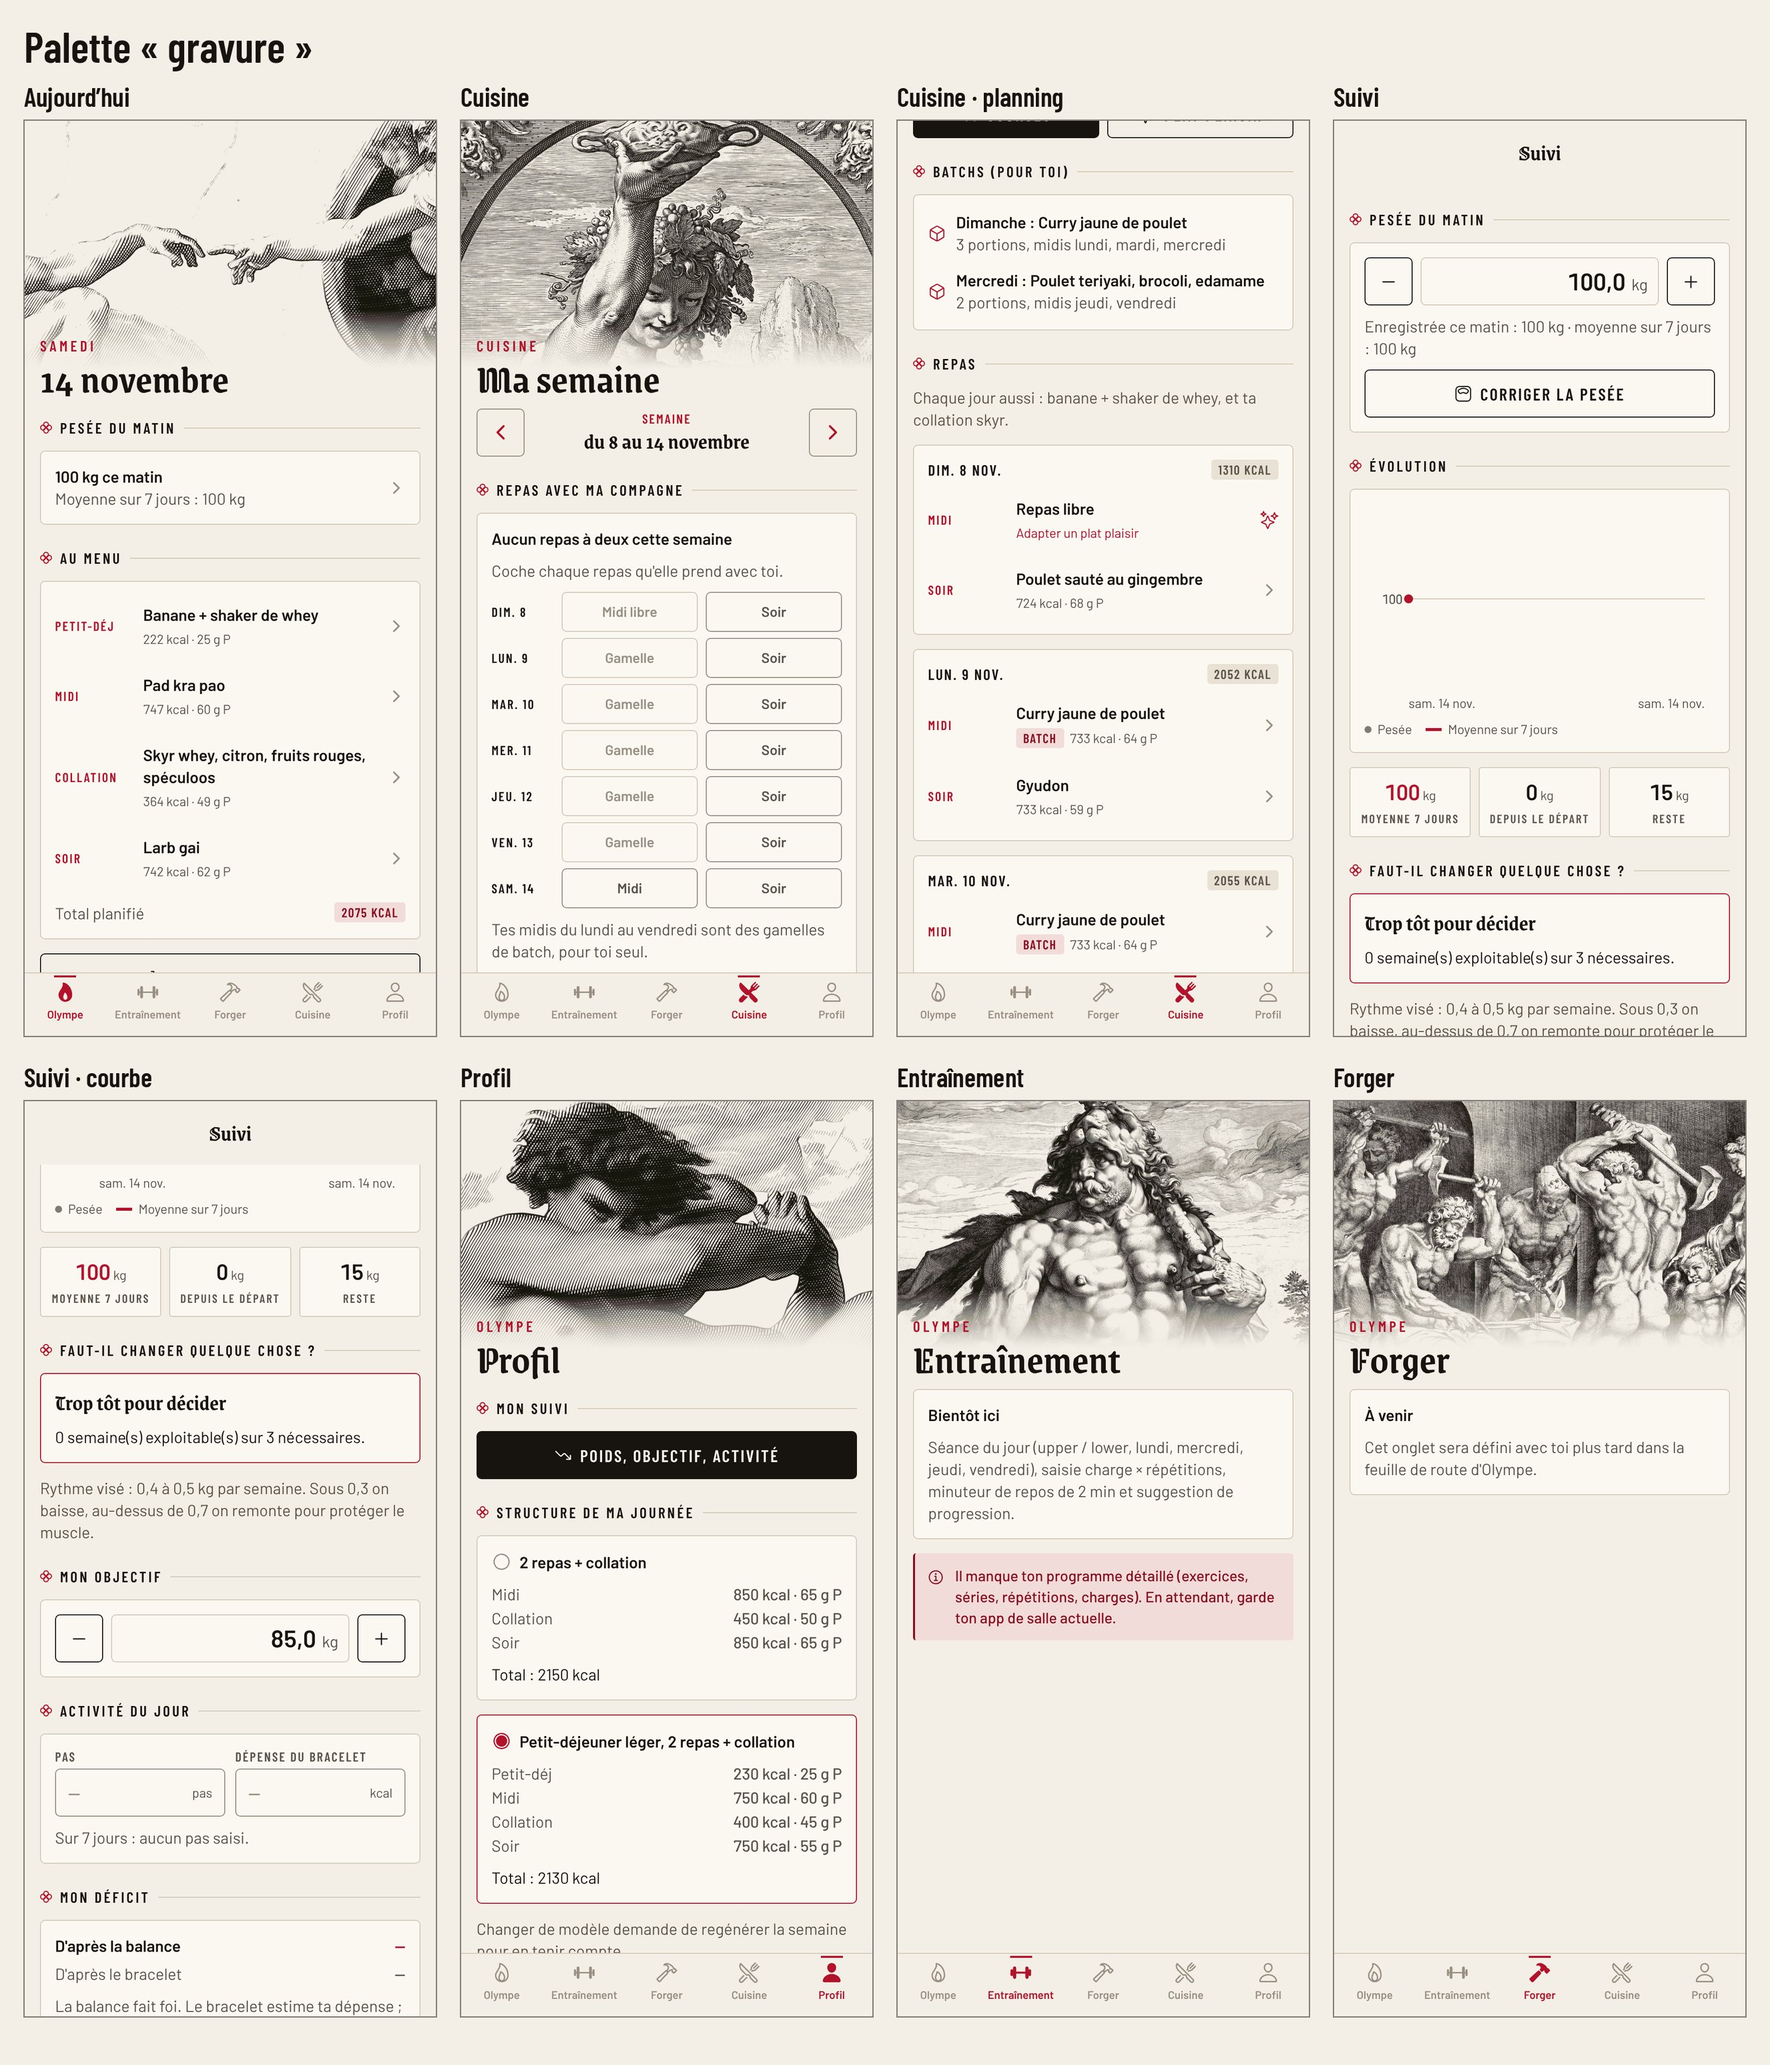
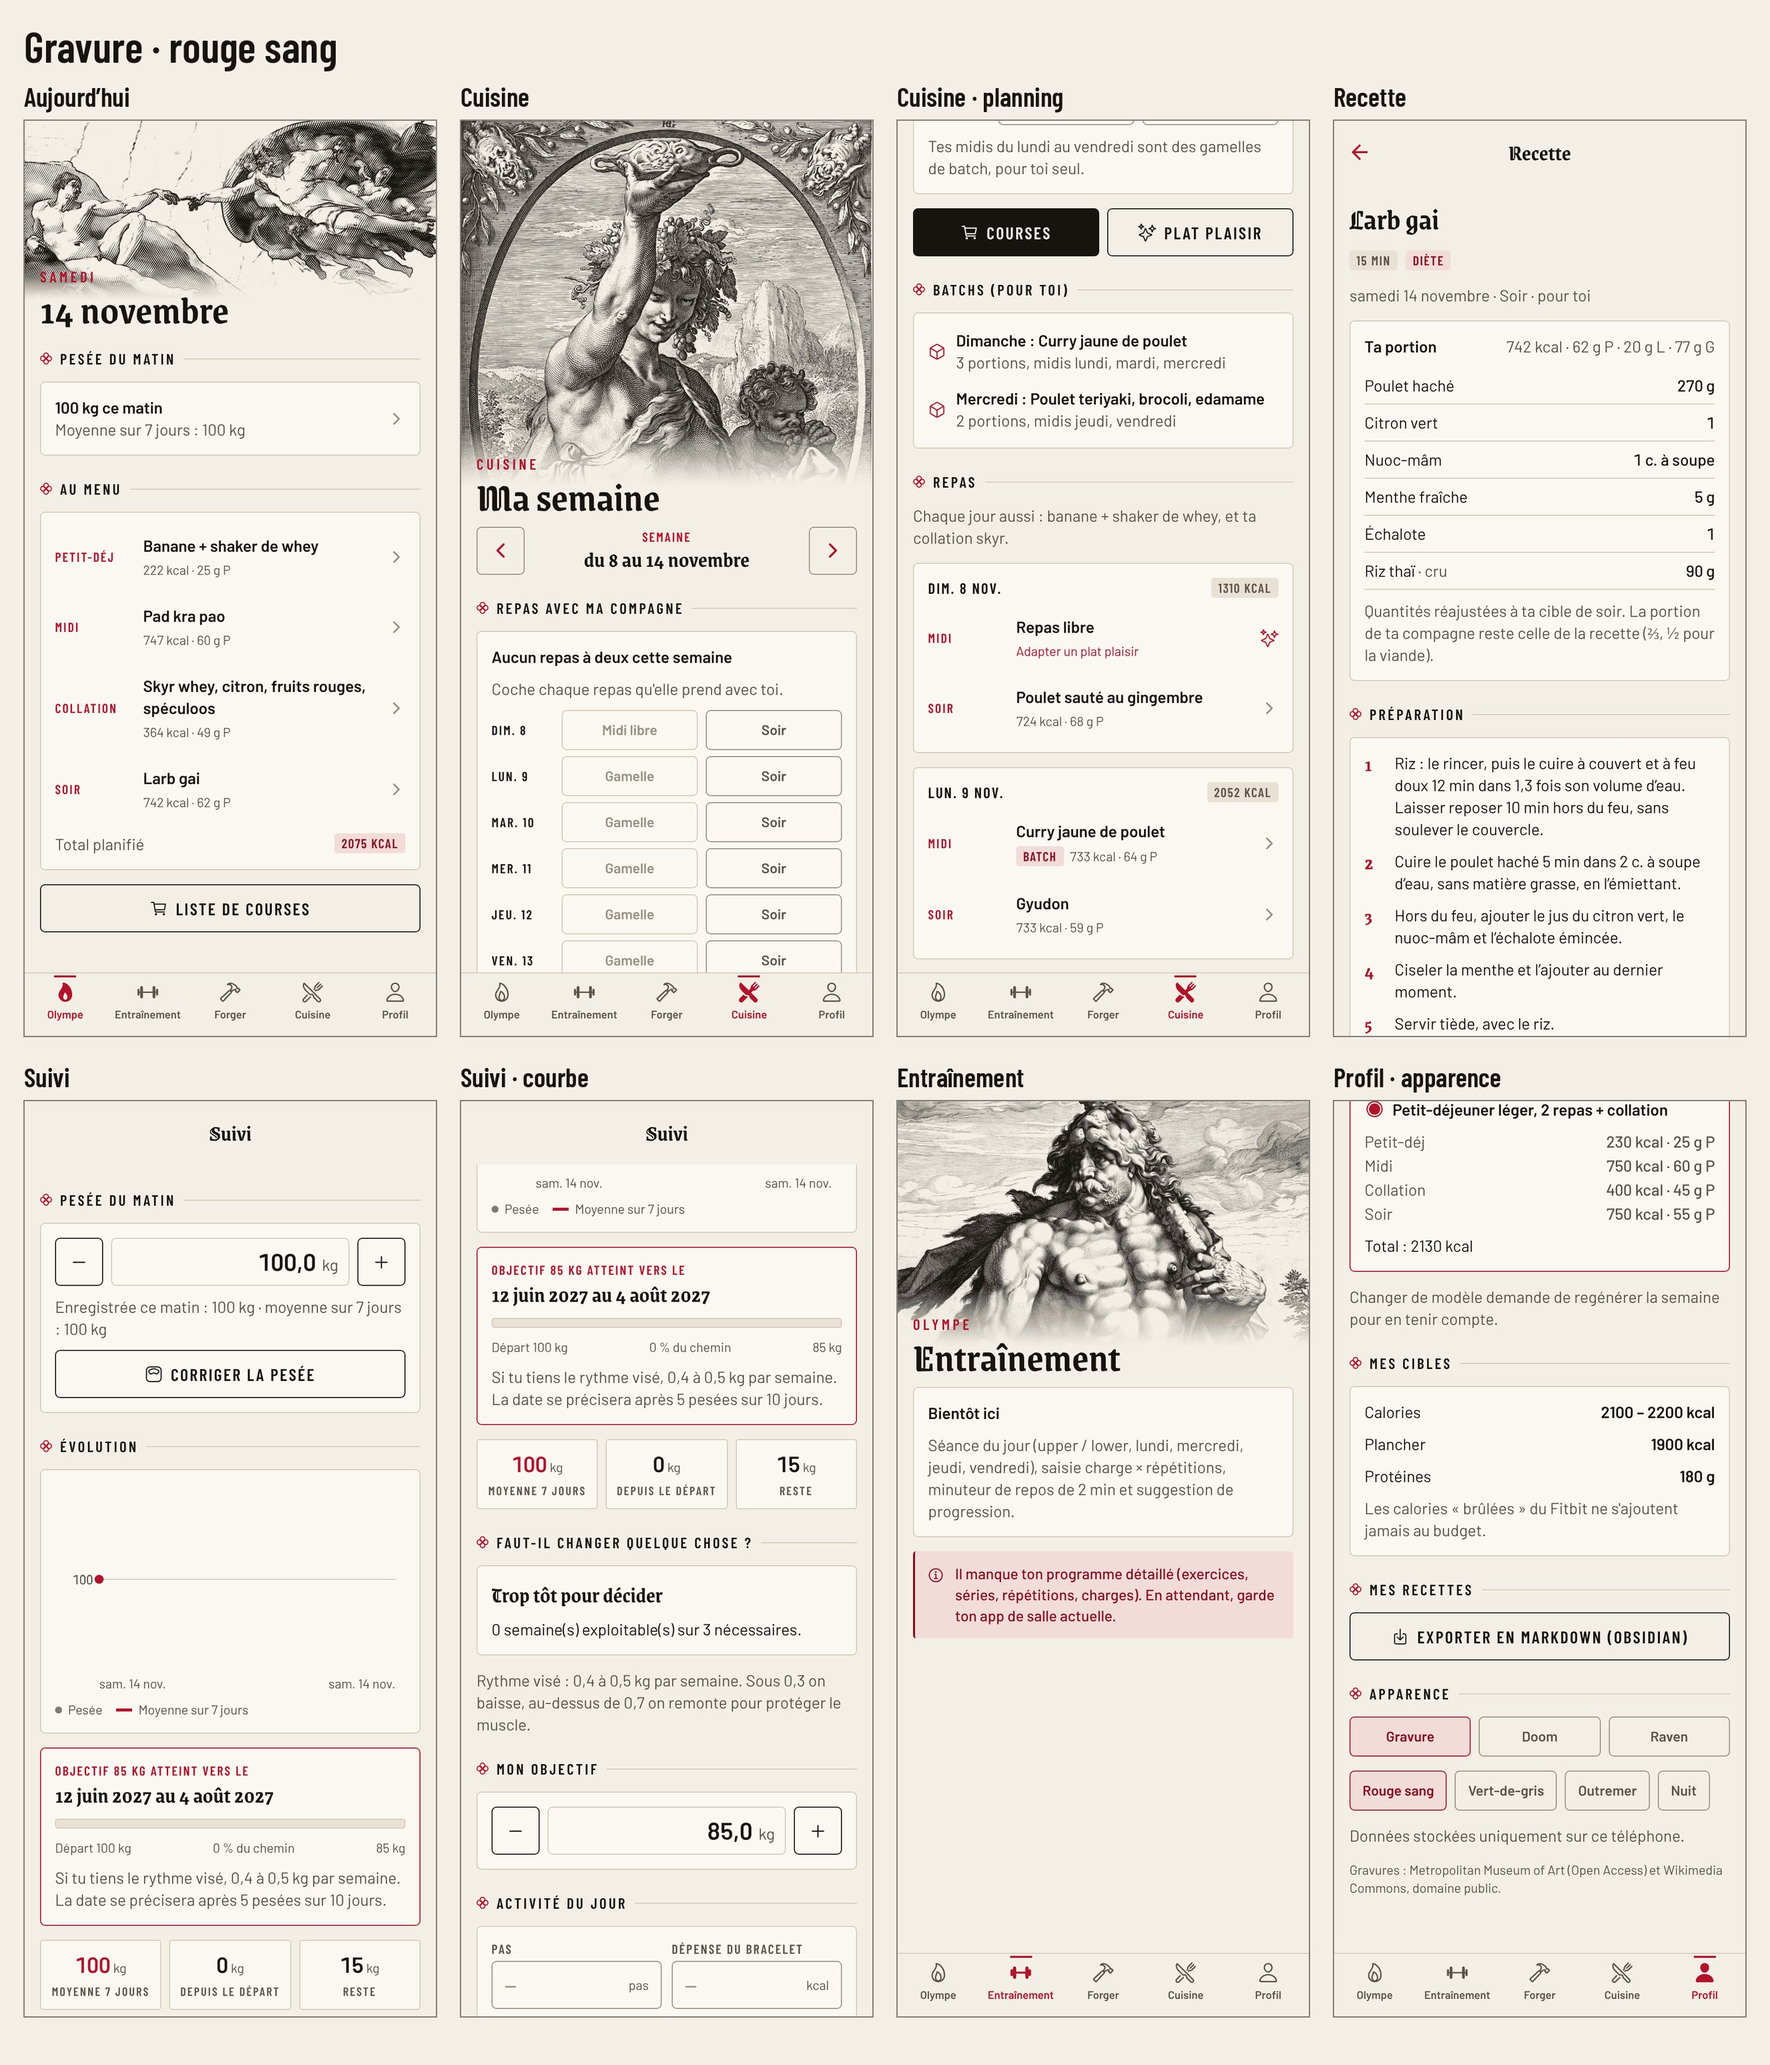
DA Doom et Raven : images de Doré, planches, analyse et recommandation
Images en « trait clair » (L'Enfer pour Doom, Le Corbeau pour Raven),
libellés de Raven resserrés, planches de captures des six apparences,
docs/DA_DOOM_RAVEN.md et mise à jour de docs/PROPOSITIONS_COULEURS.md.

Claude-Session: https://claude.ai/code/session_01D5ateorNCEUKPUuC11yqK5

diff --git a/apps/mobile/src/theme/directions/raven.ts b/apps/mobile/src/theme/directions/raven.ts
@@ -45,7 +45,7 @@ export const raven: Direction = {
     body: { fontFamily: F.text, fontWeight: '400', fontSize: 16, lineHeight: 24 },
     strong: { fontFamily: F.text, fontWeight: '600', fontSize: 16, lineHeight: 24 },
     small: { fontFamily: F.text, fontWeight: '400', fontSize: 13, lineHeight: 19 },
-    label: { fontFamily: F.label, fontWeight: '600', fontSize: 11.5, lineHeight: 16, letterSpacing: 0.8, textTransform: 'uppercase' },
+    label: { fontFamily: F.label, fontWeight: '600', fontSize: 10.5, lineHeight: 15, letterSpacing: 0.5, textTransform: 'uppercase' },
     number: { fontFamily: F.text, fontWeight: '500', fontSize: 16, lineHeight: 22, fontVariant: [...tab] },
     button: { fontFamily: F.label, fontWeight: '700', fontSize: 15, lineHeight: 20, letterSpacing: 2, textTransform: 'uppercase' },
     badge: { fontFamily: F.label, fontWeight: '600', fontSize: 11, lineHeight: 16, letterSpacing: 1.2, textTransform: 'uppercase' },

diff --git a/docs/PROPOSITIONS_COULEURS.md b/docs/PROPOSITIONS_COULEURS.md
@@ -133,21 +133,21 @@ Pour corriger cela, il faudrait préparer pour les thèmes sombres une version i
 
 ## Recommandation
 
-1. **Gravure, à garder comme thème principal.** **[Probable]** C'est celle qui sert le mieux l'usage réel de l'app, en cuisine et en rayon : lisible en pleine lumière, des images rendues comme prévu, une identité qui ne ressemble à aucune autre appli. Je corrigerais seulement les libellés d'onglets inactifs (`faint` → `muted` pour le texte de l'onglet), si vous le souhaitez.
-2. **Raven, si vous voulez un thème sombre.** **[Probable]** C'est la plus lisible des deux et la seule qui reste calme. À essayer le soir sur votre téléphone avant de juger.
-3. **Doom : je la déconseille comme thème principal.** **[Probable]** Elle est lisible et respecte la règle des trois couleurs, mais son vert et son rouge se battent pour l'attention, la paire rouge-vert pose problème aux daltoniens, et ses gravures en négatif sont les plus dures à regarder. Elle dessert une app qu'on ouvre surtout pour lire une recette.
+1. **Gravure en rouge sang, à garder par défaut.** **[Probable]** C'est celle qui sert le mieux l'usage réel de l'app, en cuisine et en rayon : lisible en pleine lumière, des images rendues comme prévu, une identité qui ne ressemble à aucune autre appli. Les libellés d'onglets inactifs sont maintenant corrigés.
+2. **Vert-de-gris, la seule variante qui la vaut.** **[Probable]** Même lisibilité, ambiance plus douce ; on y perd un peu de force dans les alertes.
+3. **Outremer et Nuit : à essayer, pas à adopter les yeux fermés.** Outremer est la plus lisible mais la plus dure à l'œil sur une longue liste ; Nuit affiche les gravures en négatif.
+4. **Pour un thème sombre, préférez la DA Raven à la palette Nuit** : ses images ont été préparées pour le fond sombre. Voir `docs/DA_DOOM_RAVEN.md`.
 
 Limites : **[Certain]** toutes ces observations viennent de l'export web (412 × 915). Sur un écran OLED Android, le noir est plus profond et le rendu sera encore plus contrasté ; la seule façon de trancher est d'essayer en APK.
 
 ## Planches
 
+Captures réelles de l'export web (412 × 915), semaine générée et pesée de 100 kg saisies dans l'interface. Aucune donnée de démonstration n'est enregistrée dans le code.
+
 | Fichier | Contenu |
 |---|---|
-| `docs/couleurs/planche-gravure.jpg` | Aujourd'hui, Cuisine (haut et planning), Suivi (haut et courbe), Profil, Entraînement, Forger |
-| `docs/couleurs/planche-doom.jpg` | Idem, palette Doom |
-| `docs/couleurs/planche-raven.jpg` | Idem, palette Raven |
-| `docs/couleurs/comparatif-aujourdhui.jpg` | Aujourd'hui dans les trois palettes |
-| `docs/couleurs/comparatif-cuisine-bas.jpg` | Planning de la semaine dans les trois palettes |
-| `docs/couleurs/comparatif-profil.jpg` | Profil : effet du négatif sur *L'Ange déchu* |
+| `docs/couleurs/comparatif-gravure-palettes.jpg` | Aujourd'hui dans les quatre palettes de Gravure |
+| `docs/couleurs/comparatif-da-aujourdhui.jpg` · `-recette.jpg` · `-entrainement.jpg` | Gravure, Doom et Raven côte à côte |
+| `docs/couleurs/planche-<apparence>.jpg` | Huit écrans par apparence : gravure, gravure-verdegris, gravure-outremer, gravure-nuit, doom, raven |
 
-Captures prises sur des exports web réels, avec une semaine générée et une pesée de 100 kg saisie dans l'interface. Aucune donnée de démonstration n'est enregistrée dans le code.
+Les sections « Doom » et « Raven » plus haut décrivent les palettes des premières propositions ; elles sont reprises telles quelles dans les DA complètes (`docs/DA_DOOM_RAVEN.md`).

diff --git a/docs/DA_DOOM_RAVEN.md b/docs/DA_DOOM_RAVEN.md
@@ -36,7 +36,16 @@ Elles reprennent une ambiance et des teintes, rien d'autre : aucun logo, personn
 
 **[Certain]** Pas d'orange : le rouge est tiré vers le carmin, le vert vers l'olive.
 
-IMAGES_DOOM
+### Images (Gustave Doré, *L'Enfer* de Dante, 1861)
+
+| Écran | Planche | Pourquoi |
+|---|---|---|
+| Olympe (aujourd'hui) | Pl. 8, chant III, la porte de l'Enfer | Le seuil : on entre dans la journée |
+| Entraînement | Pl. 22, chant VII, avares et prodigues | Des hommes qui poussent d'énormes poids |
+| Forger | Pl. 65, chant XXXI, les Titans | La force brute |
+| Cuisine | Pl. 3, chant I, le lion | Le lion « à la faim enragée » |
+| Profil | Pl. 1, chant I, la forêt obscure | « Au milieu du chemin de notre vie » : où j'en suis |
+| Écran d'attente | Pl. 9, chant III, Charon | Le passeur |
 
 ## Raven
 
@@ -48,7 +57,16 @@ IMAGES_DOOM
 | **Lueur** | `#F1EEF8` · voilée `#B7B0C6` | Texte, images, bouton principal, compagne |
 | **Améthyste** | `#B28CFF` · claire `#CDB4FF` · ombre `#2E2245` | Rehaut : sélection, jour, alertes, courbe |
 
-IMAGES_RAVEN
+### Images (Gustave Doré, *Le Corbeau* d'Edgar Poe, 1884)
+
+| Écran | Planche | Pourquoi |
+|---|---|---|
+| Olympe (aujourd'hui) | n° 15, le cimetière sous la lune | Le décor du poème |
+| Entraînement | n° 12, la fenêtre ouverte en grand | Le seul geste vif du recueil |
+| Forger | n° 21, le bras levé vers le buste | L'effort tendu vers le haut |
+| Cuisine | n° 17, la table sous la lampe | L'intérieur, la lumière posée |
+| Profil | n° 24, le spectre sur la mer | La silhouette seule |
+| Écran d'attente | n° 1, le corbeau qui entre | L'arrivée |
 
 ## Les images en « trait clair »
 
@@ -86,7 +104,11 @@ Calcul WCAG 2.1 sur les valeurs des fichiers de palette.
 
 ## Recommandation
 
-RECO
+1. **Gravure (rouge sang) reste ma recommandation pour l'usage quotidien.** **[Probable]** C'est la plus lisible en pleine lumière, en cuisine et en rayon, et la seule dont les images sont rendues comme elles ont été dessinées.
+2. **Raven est la meilleure des deux nouvelles DA.** **[Probable]** C'est la plus confortable à lire (Spectral), la plus reposante le soir, et les images de Doré y sont les plus cohérentes avec l'ambiance. Si vous voulez une app sombre, c'est celle-là.
+3. **Doom est la plus spectaculaire, mais la plus fatigante.** **[Probable]** Elle convient à l'onglet Entraînement plus qu'à une recette lue pendant 30 minutes. Si elle vous plaît, je garderais sa typographie et ses plaques, mais j'éteindrais le vert du bouton principal au profit de l'acier poli : on reviendrait à une seule couleur saturée.
+
+Le seul moyen de trancher : installer l'APK et passer d'une apparence à l'autre dans Profil, le soir puis en cuisine.
 
 ## Limites
 
